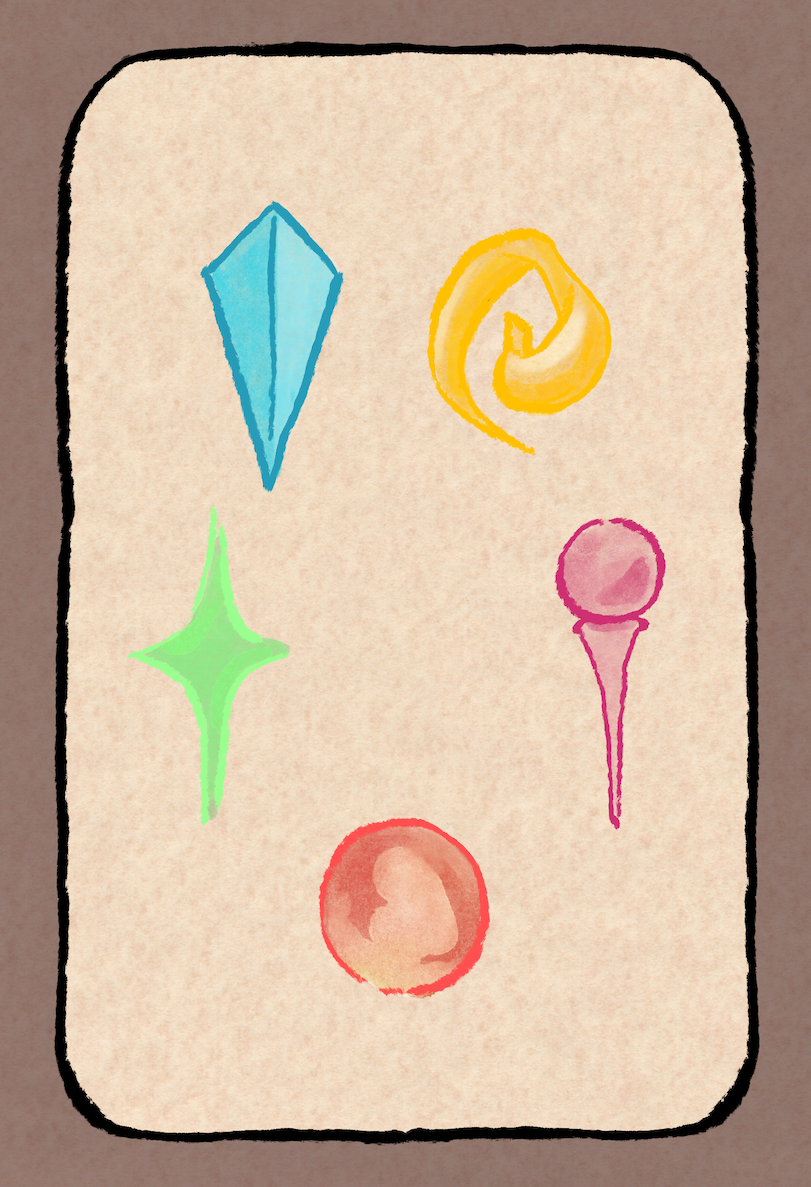
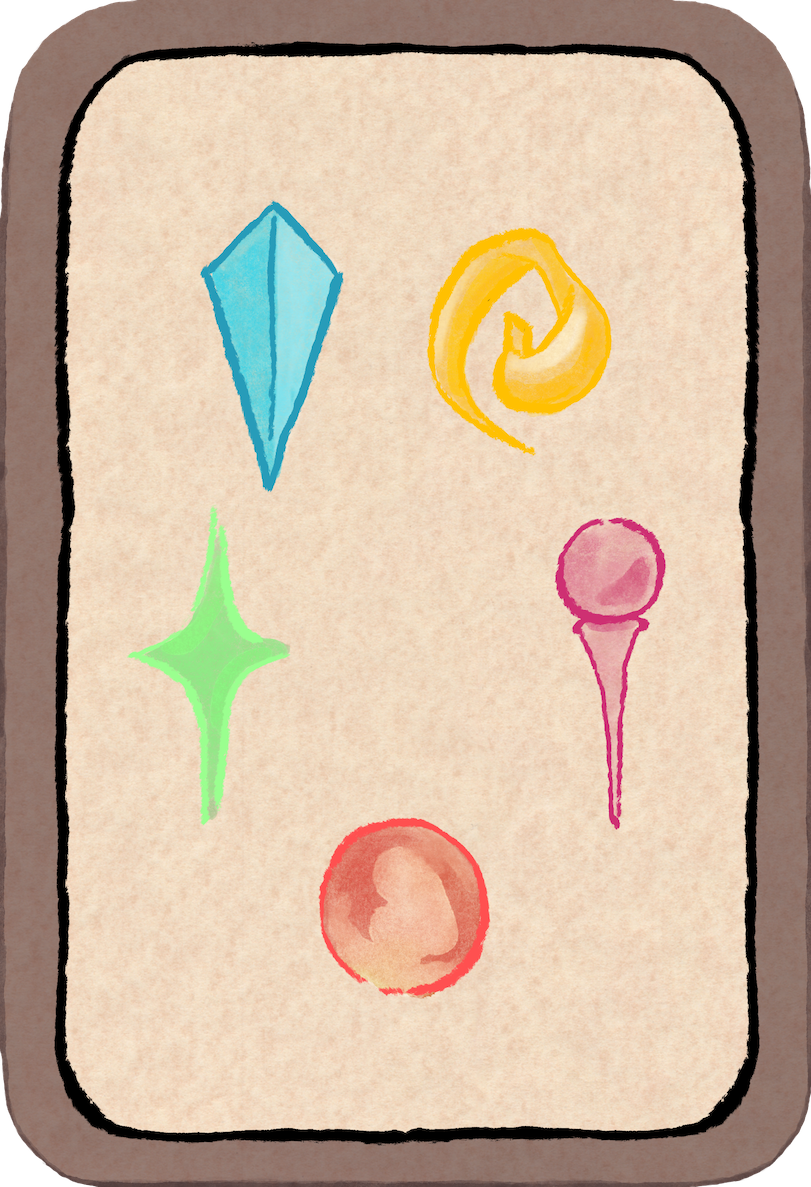
Revert "switched from ~hand cropped~ cards to using border radius" BAD CHOICES
This reverts commit f5616a8e3fdb5a387daa8bc65dc7961f042d8fc2.

Changed region(s): [[0.0, 0.0, 1.0, 1.0]]

diff --git a/client/src/components/Opponent.svelte b/client/src/components/Opponent.svelte
@@ -51,10 +51,10 @@
         <div id="container">
             <div id="assets">
                 {#each Array($opponents[name].cards) as _, i (i)}
-                    <img class="card" transition:fade animate:flip src="/assets/cards/back.png" alt="card back" style="--num-images: {Array($opponents[name].cards).length + $opponents[name].revealed_cards.length};">
+                    <img transition:fade animate:flip src="/assets/cards/back.png" alt="card back" style="--num-images: {Array($opponents[name].cards).length + $opponents[name].revealed_cards.length};">
                 {/each}
                 {#each $opponents[name].revealed_cards as card, i (i)}
-                    <img class="card" transition:fade animate:flip src="/assets/cards/{card}.png" alt="{card}" style="--num-images: {Array($opponents[name].cards).length + $opponents[name].revealed_cards.length};">
+                    <img transition:fade animate:flip src="/assets/cards/{card}.png" alt="{card}" style="--num-images: {Array($opponents[name].cards).length + $opponents[name].revealed_cards.length};">
                 {/each}
                 <img class="coins" src="/assets/coins/{$opponents[name].coins}.png" alt="{$opponents[name].coins} coins">
             </div>
@@ -180,15 +180,9 @@
     }
 
     img {
-        margin: .5vw;
+        padding: .5vw;
         max-width: calc(80% / var(--num-images));
         max-height: 170px;
-    }
-
-    .card {
-        border-radius: 20px;
-        border: 1px solid rgba(181, 163, 149, 0.8);
-        border-bottom: 2px solid rgba(181, 163, 149, 0.8);
     }
 
     @media (max-aspect-ratio: 6/8) {

diff --git a/client/src/pages/Game.svelte b/client/src/pages/Game.svelte
@@ -411,10 +411,10 @@
 			<h2>{$player.name}</h2>
 			<hr>
 			{#each $player.cards as card, i (i)} 
-				<img class="card" transition:fade animate:flip src="/assets/cards/{card}.png" alt="{card}">
+				<img transition:fade animate:flip src="/assets/cards/{card}.png" alt="{card}">
 			{/each}
 			{#each $player.lost_cards as card, i (i)} 
-				<img class="card" transition:fade animate:flip src="/assets/cards/{card}.png" alt="{card}" style="opacity: .5;">
+				<img transition:fade animate:flip src="/assets/cards/{card}.png" alt="{card}" style="opacity: .5;">
 			{/each}
 			<img id="coins" src="/assets/coins/{$player.coins}.png" alt="{$player.coins} coins">
 
@@ -461,7 +461,7 @@
 
 	img {
 		max-width: calc(80%/2);
-		margin: .5vw;
+		padding: .5vw;
 	}
 
 	hr {
@@ -554,12 +554,6 @@
 
 	.opponents2, .opponents3, .opponents4, .opponents5 { 
 		display: contents; 
-	}
-
-	.card {
-		border-radius: 20px;
-		border: 1px solid rgba(181, 163, 149, 0.8);
-		border-bottom: 2px solid rgba(181, 163, 149, 0.8);
 	}
 
 	#coins {
